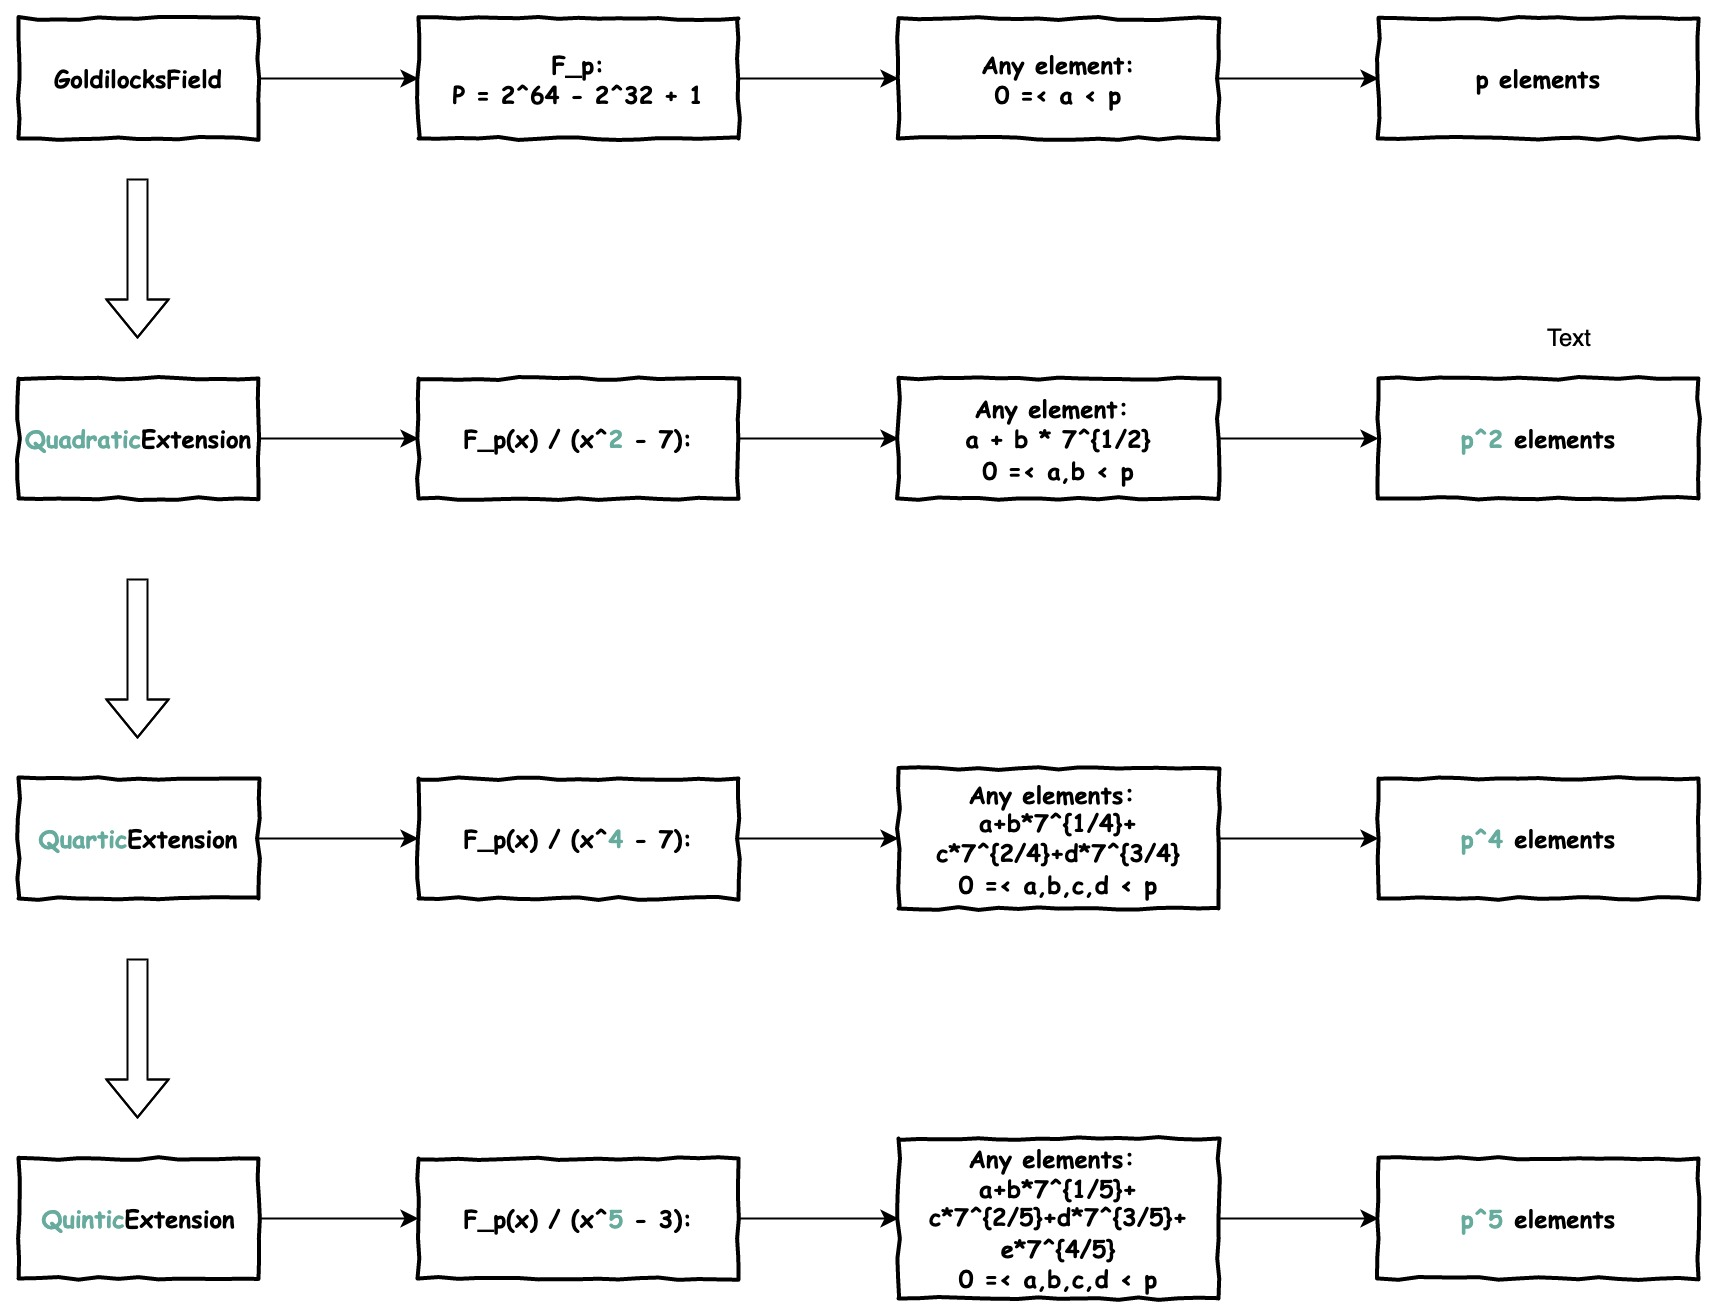
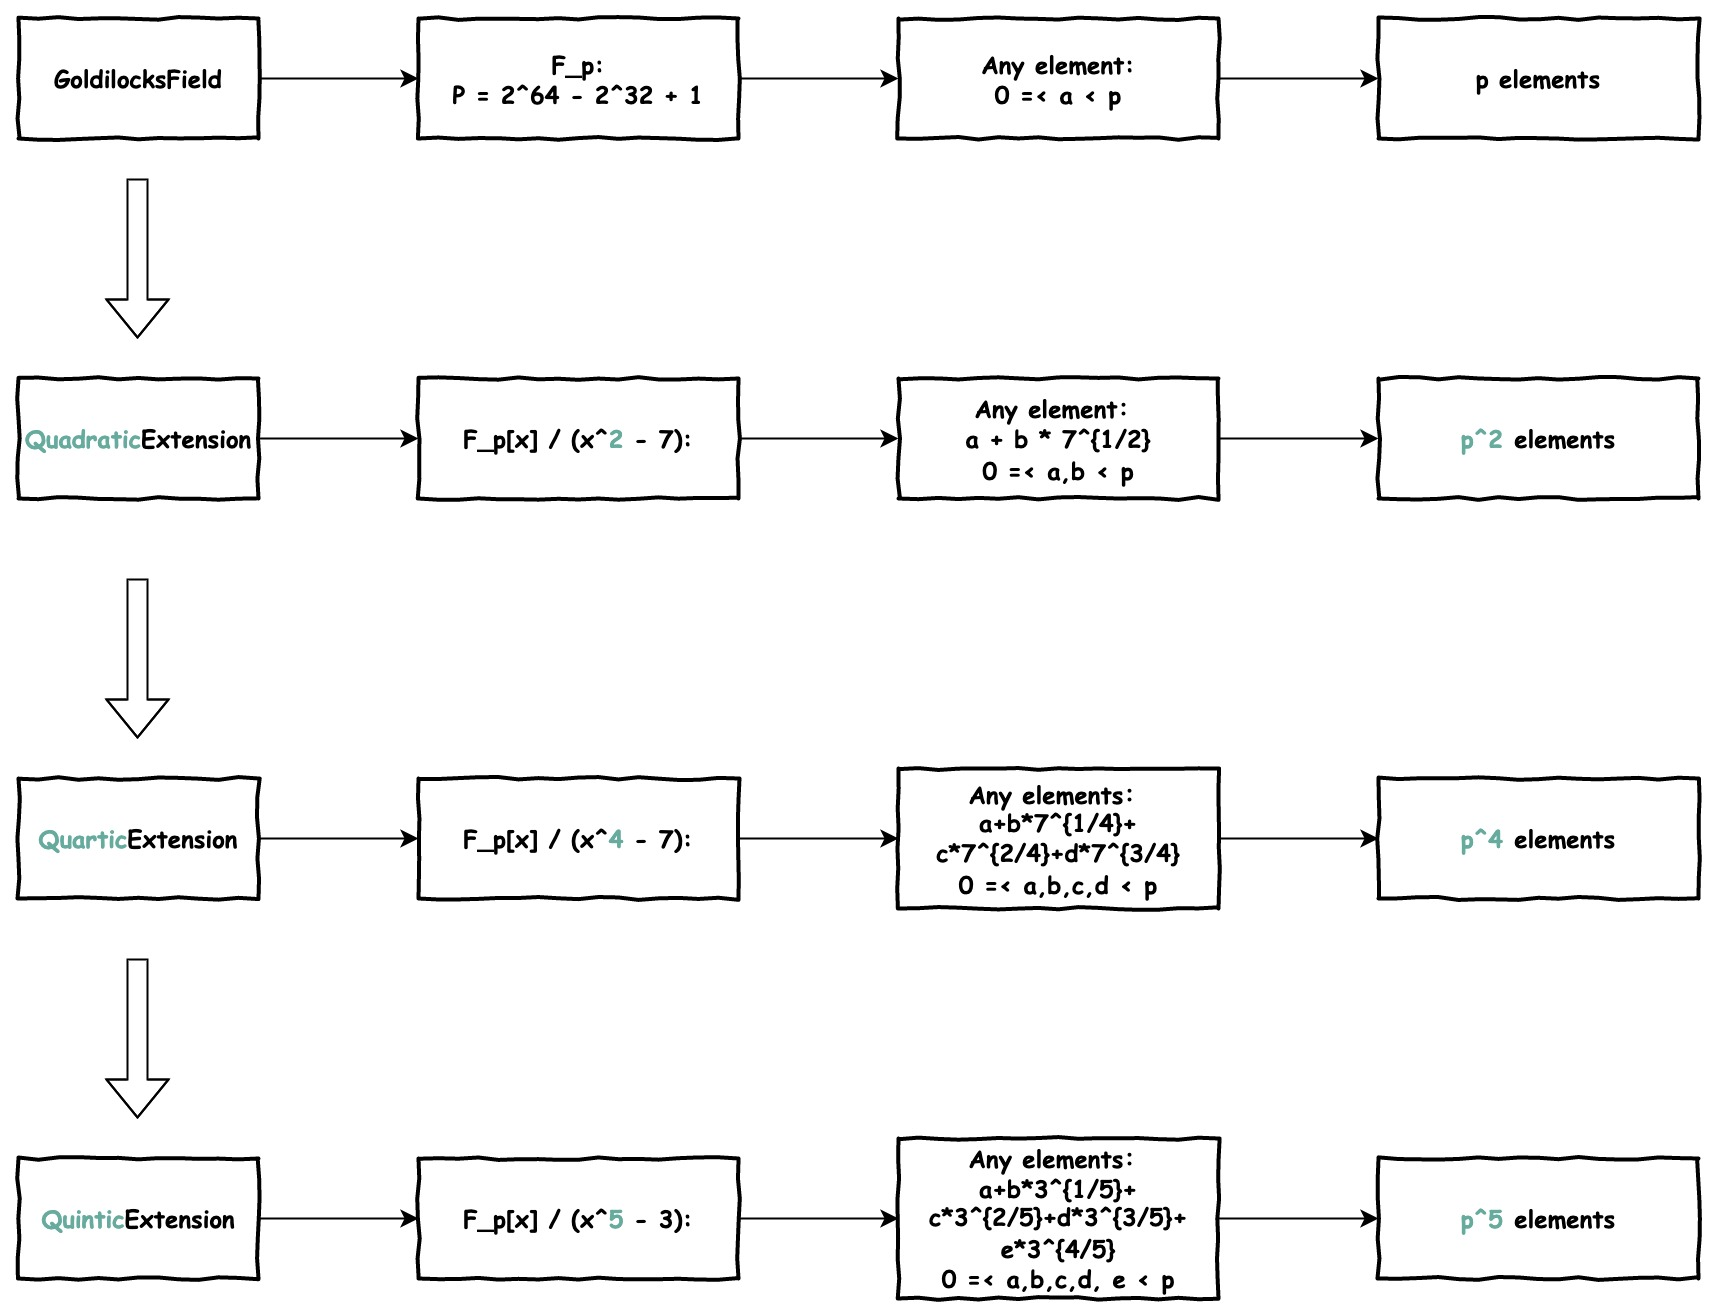
FIX: arithmetic_extension typo and image.

diff --git a/plonky2/designs/gates/custom/arthmetic_extension.tex b/plonky2/designs/gates/custom/arthmetic_extension.tex
@@ -3,7 +3,7 @@
 To understand the design principle of this Gate, we must first understand \href{https://en.wikipedia.org/wiki/Field_extension#Extension_field}{Field extension}. 
 
 
-Taking Plonky2's GoldilocksField as an example, we give the extension field elements under quadratic, quadratic and quintuple expansions respectively:
+Taking Plonky2's GoldilocksField as an example, we give the extension field elements under quadratic, quartic and quintic expansions respectively:
 
 \begin{figure}[!ht]
     \centering
